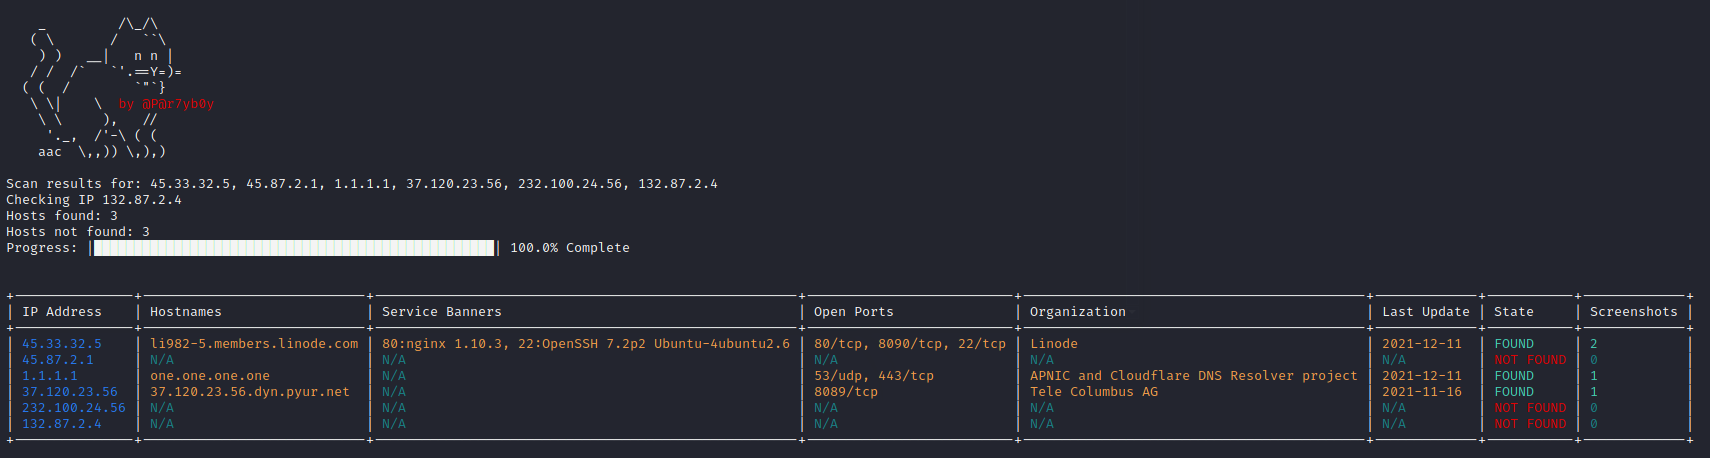
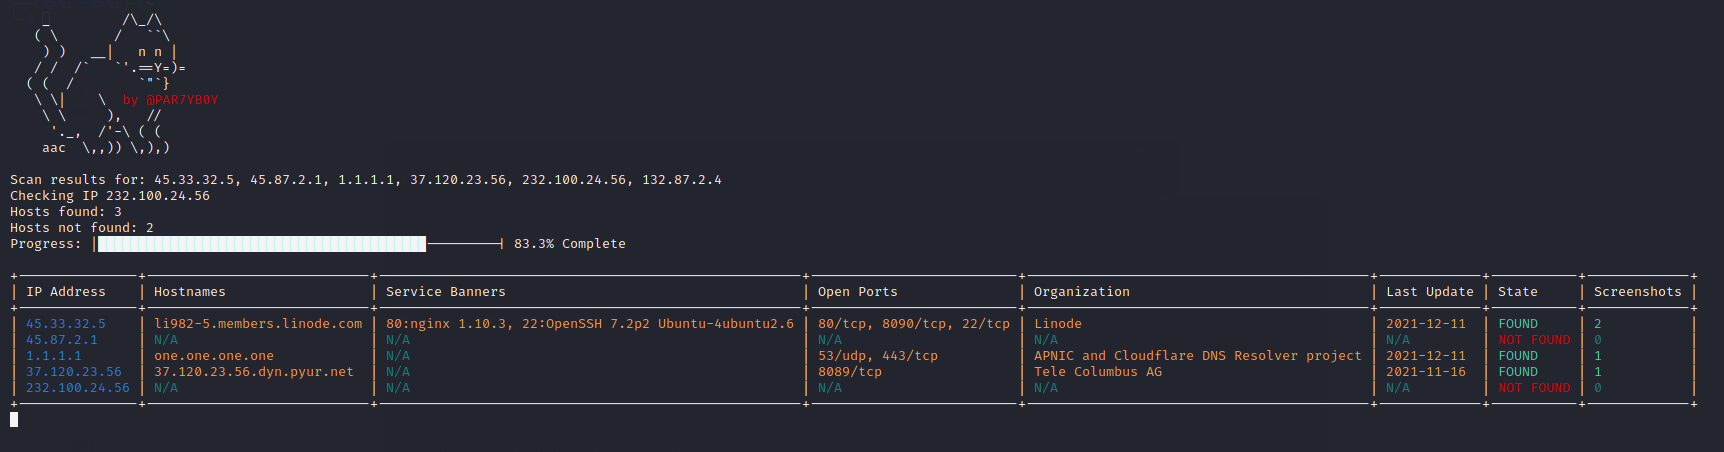
imgs

diff --git a/ASS.py b/ASS.py
@@ -44,7 +44,7 @@ def banner():
     ) )   __|   n n |
    / /  /`   `'.==Y=)=  
   ( (  /        `"`}
-   \ \|    \ """+Fore.LIGHTRED_EX+""" by @P@r7yb0y"""+ Style.RESET_ALL+""" 
+   \ \|    \ """+Fore.LIGHTRED_EX+""" by @PAR7YB0Y"""+ Style.RESET_ALL+""" 
     \ \     ),   //
      '._,  /'-\ ( (
     aac  \,,)) \,),)
